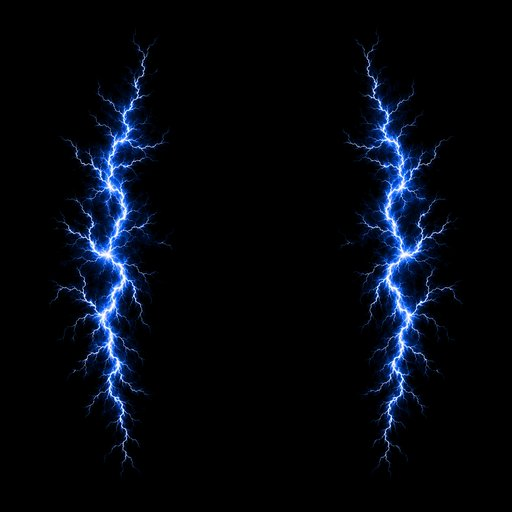
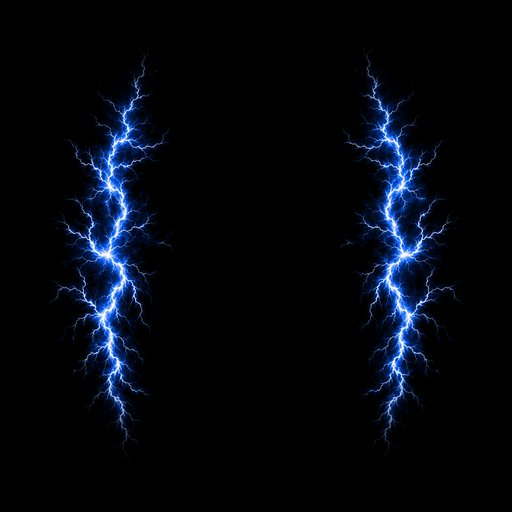
vfx: T68R — flipbook compositor: 8 Kling clips to 24-frame masked sheets, pingpong/forward playback on vfxT, ground-dim contrast engine, white-hot cores, eased still envelopes; engine untouched, anchor 40.9/59.1
PART A (scripts/build_vfx_sheets.py, rerunnable; imageio bundled ffmpeg): per clip
24 even frames @256px -> black-floor clamp(lum<12->0) + F2 radial cosine mask
(1.0 in 70%r -> 0 by 98%, corners guaranteed 0) -> 6x4 1536x1024 JPEG q85 sheet.
8 sheets = 1.66MB (8MB ceiling). A4: same clamp+mask on the 13 remaining stills
(ring/shield/bloom/streak/lightning + aura_3).

PART B: sheet-aware instances (drawImage src-rect from grid), frame @24fps / vfxT.
Modes (B2): pingpong (smoke_1/surge_1/surge_2/aura_1/aura_2, random start+dir),
forward-only (smoke_2/venom_1/venom_2 — venom NEVER reverses, drips never rise).
Routing swaps sheets in for aura/smoke/surge/venom; stills remain instant fallback
(sheet-not-ready -> still + envelope). Lightning 4-frame swap untouched. B4: aura
faction tint at DRAW time via one 256 offscreen (no 8x6MB pre-tinted sheets, ~48MB
saved). B5: sheets preload at page load AFTER stills (stills = guaranteed floor).

PART C: C1 ground-dim (radial 25% center, 1.8x feather, rise 80ms) under combat+/
spectacle (surge/bloom/smoke/lightning) only, never ambient/reduced-motion. C2
white-hot core add-back in the still tint pass. C3 cubic-out growth / cubic-in
decay / soft ~60-80ms birth + 1.35x/0.25a double-stamp halo on additive stills.

Gates: G1 byte-identical test.js, 40.9/59.1, scenario 50/venom 38/story 69, 0
console.log. G2 both matchups both seats: 4 flipbooks fire + ANIMATE (instrumented
[…]

diff --git a/index.html b/index.html
@@ -8101,7 +8101,15 @@ const VFX = (()=>{
   const SPR_NAMES=['aura_1','aura_2','aura_3','bloom_1','bloom_2','lightning_1','lightning_2','lightning_3','lightning_4','ring_1','ring_2','shield_1','shield_2','smoke_1','smoke_2','streak_1','streak_2','surge_1','surge_2','venom_1','venom_2'];
   const SPR_FAC={ devas:'#e0b040', asuras:'#e0483c', vanaras:'#6fc257', nagas:'#3fb9a8' };
   function offc2(wd,ht){ const c=document.createElement('canvas'); c.width=wd; c.height=ht; return c; }
-  function tintOf(img,color){ const iw=img.naturalWidth||img.width, ih=img.naturalHeight||img.height, c=offc2(iw,ih), g=c.getContext('2d'); g.drawImage(img,0,0,iw,ih); g.globalCompositeOperation='multiply'; g.fillStyle=color; g.fillRect(0,0,iw,ih); return c; }  // white-gold × faction color; black stays black → no additive contribution
+  function tintOf(img,color){ const iw=img.naturalWidth||img.width, ih=img.naturalHeight||img.height, c=offc2(iw,ih), g=c.getContext('2d');
+    g.drawImage(img,0,0,iw,ih); g.globalCompositeOperation='multiply'; g.fillStyle=color; g.fillRect(0,0,iw,ih);   // RGB tinted; black stays black → no additive contribution
+    // C2 WHITE-HOT CORE (F4): add the top-luminance core back UNtinted so bright centers stay white-gold, separated from the gold board
+    try{ const core=offc2(iw,ih), cg=core.getContext('2d'); cg.drawImage(img,0,0,iw,ih);
+      const id=cg.getImageData(0,0,iw,ih), d=id.data;
+      for(let i=0;i<d.length;i+=4){ if(Math.max(d[i],d[i+1],d[i+2])<205){ d[i]=d[i+1]=d[i+2]=0; } }   // keep only the hot core (>205)
+      cg.putImageData(id,0,0); g.globalCompositeOperation='lighter'; g.globalAlpha=0.55; g.drawImage(core,0,0); g.globalAlpha=1;
+    }catch(e){}
+    return c; }
   function buildTints(key,img){                                                       // tint ONCE at load, never per-frame
     if(/^aura|^ring/.test(key)){ sprTint[key]={}; for(const f in SPR_FAC) sprTint[key][f]=tintOf(img,SPR_FAC[f]); }   // faction-tinted
     else if(/^bloom/.test(key)){ sprTint[key]={ damage:tintOf(img,'#ff5a44') }; }                                    // red for damage; destroy uses raw white-gold
@@ -8110,15 +8118,41 @@ const VFX = (()=>{
   }
   function preloadSprites(){ if(sprLoadN>0) return;                                    // idempotent, once per session (0d slot; async → never blocks the mulligan)
     SPR_NAMES.forEach(key=>{ const im=new Image(); im.decoding='async';
-      im.onload=()=>{ sprImg[key]=im; try{buildTints(key,im);}catch(e){} sprLoadN++; if(sprLoadN>=SPR_NAMES.length) spritesReady=true; };
-      im.onerror=()=>{ sprLoadN++; if(sprLoadN>=SPR_NAMES.length) spritesReady=true; };   // a missing sprite just leaves its procedural fallback in place
+      im.onload=()=>{ sprImg[key]=im; try{buildTints(key,im);}catch(e){} sprLoadN++; if(sprLoadN>=SPR_NAMES.length){ spritesReady=true; preloadSheets(); } };
+      im.onerror=()=>{ sprLoadN++; if(sprLoadN>=SPR_NAMES.length){ spritesReady=true; preloadSheets(); } };   // a missing sprite just leaves its procedural fallback in place; stills done → start sheets (B5)
       im.src='assets/vfx/game/vfx_'+key+'.png'; });
   }
   function pick(pre,n){ return pre+'_'+(1+Math.floor(Math.random()*n)); }
   function haveSpr(key){ return !!sprImg[key]; }
   function imgTint(key,kind){ const t=sprTint[key]; if(kind && t && t[kind]) return t[kind]; return sprImg[key]; }
-  function addSpr(o){ if(reducedMotion()) return; if(!o.img && !o.swap) return; if(sprites.length>=SCAP) sprites.shift(); o.age=0; o.max=o.life; o.swapT=0; sprites.push(o); wake(); }   // oldest evicted at cap
+  // ===================== T68R FLIPBOOK SHEETS =====================
+  let sheetImg={}, sheetsReady=false, sheetLoadN=0;
+  const SHEET_NAMES=['aura_1','aura_2','smoke_1','smoke_2','surge_1','surge_2','venom_1','venom_2'];
+  const SHEET_COLS=6, SHEET_FRAMES=24, SHEET_CELL=256;
+  // B2 PLAYBACK MODES: pingpong default; venom + smoke_2(bloom-envelope) forward-only (venom NEVER reverses — drips must fall, never rise)
+  const SHEET_MODE={ aura_1:'pingpong', aura_2:'pingpong', smoke_1:'pingpong', surge_1:'pingpong', surge_2:'pingpong', smoke_2:'forward', venom_1:'forward', venom_2:'forward' };
+  const sheetFrameCanvas=offc2(SHEET_CELL,SHEET_CELL);   // B4: ONE reusable 256² canvas for draw-time aura tint (no 8×6MB pre-tinted sheets → ~50MB saved)
+  function haveSheet(key){ return !!sheetImg[key]; }
+  function preloadSheets(){ if(sheetLoadN>0) return;   // B5: sheets load at PAGE LOAD but AFTER the stills (stills are the guaranteed floor; sheets progressively upgrade)
+    SHEET_NAMES.forEach(key=>{ const im=new Image(); im.decoding='async';
+      im.onload=()=>{ sheetImg[key]=im; sheetLoadN++; if(sheetLoadN>=SHEET_NAMES.length) sheetsReady=true; };
+      im.onerror=()=>{ sheetLoadN++; if(sheetLoadN>=SHEET_NAMES.length) sheetsReady=true; };   // a missing sheet just keeps the still + envelope fallback
+      im.src='assets/vfx/game/sheets/vfx_'+key+'.png'; });
+  }
+  function addSheetSpr(key, x, y, size, o){ if(reducedMotion()||!sheetImg[key]) return false;
+    const mode=SHEET_MODE[key]||'forward';
+    addSpr(Object.assign({ sheet:key, mode, frame:(Math.random()*SHEET_FRAMES)|0, dir:(mode==='pingpong'&&Math.random()<.5?-1:1), fAcc:0, x, y, size, anchorX:0.5, anchorY:0.5, sc0:1,sc1:1, op0:0,opPeak:1,op1:0, peakAt:0.15 }, o||{})); return true; }
+  // C1 GROUND DIM (F3): soft radial darkening under COMBAT+ / SPECTACLE effects only (never ambient, never reduced-motion)
+  let gdim=null;
+  function groundDim(cxp,cyp,radius){ if(reducedMotion()) return; const {x,y}=local(cxp,cyp); gdim={ x, y, r:radius*1.8, peak:0.25, age:0, rise:0.08*vfxT(), life:0.5*vfxT() }; wake(); }
+  function addSpr(o){ if(reducedMotion()) return; if(!o.img && !o.swap && !o.sheet) return; if(sprites.length>=SCAP) sprites.shift(); o.age=0; o.max=o.life; o.swapT=0; sprites.push(o); wake(); }   // oldest evicted at cap
   function drawSprites(dt){
+    // C1 GROUND DIM: soft radial darkening drawn FIRST (source-over), so the additive effect glows over a dimmed board → contrast
+    if(gdim){ gdim.age+=dt; if(gdim.age>=gdim.life) gdim=null;
+      else { const a = gdim.age<gdim.rise ? gdim.peak*(gdim.age/gdim.rise) : gdim.peak*(1-(gdim.age-gdim.rise)/(gdim.life-gdim.rise));
+        if(a>0.003){ cx.setTransform(1,0,0,1,0,0); cx.globalCompositeOperation='source-over'; cx.globalAlpha=1;
+          const g=cx.createRadialGradient(gdim.x*DPR,gdim.y*DPR,0, gdim.x*DPR,gdim.y*DPR,gdim.r*DPR);
+          g.addColorStop(0,`rgba(0,0,0,${a.toFixed(3)})`); g.addColorStop(1,'rgba(0,0,0,0)'); cx.fillStyle=g; cx.fillRect(0,0,canvas.width,canvas.height); } } }
     if(!sprites.length) return;
     for(let i=sprites.length-1;i>=0;i--){ const s=sprites[i]; s.age+=dt; if(s.age>=s.max) sprites.splice(i,1); }
     cx.save();                                                              // T67b R2: isolate all sprite state
@@ -8129,40 +8163,72 @@ const VFX = (()=>{
   }
   function drawOneSpr(s,dt){
     if(s.swap){ s.swapT+=dt; if(!s.img || s.swapT>=0.05){ s.swapT=0; s.img=sprImg[pick('lightning',4)]; s.flip=(Math.random()<.5?-1:1); } }   // lightning: hard-swap variant every 50ms + random flip = free variation
-    const img=s.img; if(!img) return;
-    const t=Math.min(1,s.age/s.max), ez=1-Math.pow(1-t,2);
+    // B1/B2: advance flipbook frame at 24fps / vfxT (faster at 'fast', slower at 'relaxed')
+    if(s.sheet){ s.fAcc+=dt*24/(vfxT()||1);
+      while(s.fAcc>=1){ s.fAcc-=1; s.frame+=s.dir;
+        if(s.mode==='pingpong'){ if(s.frame>=SHEET_FRAMES){ s.frame=SHEET_FRAMES-2; s.dir=-1; } else if(s.frame<0){ s.frame=1; s.dir=1; } }
+        else if(s.frame>=SHEET_FRAMES){ s.frame=SHEET_FRAMES-1; } }   // forward-only clamps at last frame (venom never reverses → drips never rise)
+    }
+    const img=s.sheet ? sheetImg[s.sheet] : s.img; if(!img) return;
+    const t=Math.min(1,s.age/s.max);
+    const ez = s.crash ? t : (1-Math.pow(1-t,3));                            // C3 F5: cubic-OUT growth
     let sc=s.sc0+(s.sc1-s.sc0)*ez; if(s.overshoot) sc+=Math.sin(t*Math.PI)*s.overshoot*(1-t);
     let op; const pk=(s.peakAt!=null?s.peakAt:0.3);
-    if(s.crash) op=s.opPeak*(1-t);                                            // 1->0 crash (bloom)
-    else if(t<pk) op=s.op0+(s.opPeak-s.op0)*(t/pk);
-    else op=s.opPeak+(s.op1-s.opPeak)*((t-pk)/(1-pk));
+    if(s.crash) op=s.opPeak*(1-Math.pow(t,1.4));                             // bloom crash
+    else if(t<pk) op=s.op0+(s.opPeak-s.op0)*Math.pow(t/pk,0.6);              // C3: soft ~60-80ms birth (fast-in then settle)
+    else op=s.opPeak+(s.op1-s.opPeak)*Math.pow((t-pk)/(1-pk),1.6);          // C3: cubic-IN decay
     if(op<=0.004) return;
     const size=s.size, sx=DPR*sc*(s.flip||1)*(s.stretchX||1), sy=DPR*sc*(s.squashY||1);
     const c=Math.cos(s.rot||0), sn=Math.sin(s.rot||0), dx=s.x+(s.driftX||0)*t, dy=s.y+(s.driftY||0)*t;
-    cx.globalCompositeOperation = s.smoke ? 'source-over' : 'lighter';      // T67b R2: set blend PER SPRITE — a kit sprite can never draw source-over (no state leak / device default can show its black)
-    cx.globalAlpha=Math.min(1,op);
+    cx.globalCompositeOperation = s.smoke ? 'source-over' : 'lighter';       // T67b R2: blend per-sprite (flipbook sheets are all additive → 'lighter')
     cx.setTransform(sx*c, sx*sn, -sy*sn, sy*c, DPR*dx, DPR*dy);
     const ax=(s.anchorX!=null?s.anchorX:0.5), ay=(s.anchorY!=null?s.anchorY:0.5);
+    if(s.sheet){
+      const fr=Math.max(0,Math.min(SHEET_FRAMES-1, Math.floor(s.frame))), sx0=(fr%SHEET_COLS)*SHEET_CELL, sy0=((fr/SHEET_COLS)|0)*SHEET_CELL;
+      if(s.tintFac){   // B4: draw-time aura faction tint via the shared 256² offscreen (multiply; black stays black under 'lighter')
+        const og=sheetFrameCanvas.getContext('2d'); og.globalCompositeOperation='source-over'; og.clearRect(0,0,SHEET_CELL,SHEET_CELL);
+        og.drawImage(img, sx0,sy0,SHEET_CELL,SHEET_CELL, 0,0,SHEET_CELL,SHEET_CELL);
+        og.globalCompositeOperation='multiply'; og.fillStyle=SPR_FAC[s.tintFac]||'#e0b040'; og.fillRect(0,0,SHEET_CELL,SHEET_CELL);
+        cx.globalAlpha=Math.min(1,op); cx.drawImage(sheetFrameCanvas, -size*ax,-size*ay, size,size);
+      } else { cx.globalAlpha=Math.min(1,op); cx.drawImage(img, sx0,sy0,SHEET_CELL,SHEET_CELL, -size*ax,-size*ay, size,size); }
+      return;
+    }
+    cx.globalAlpha=Math.min(1,op);
     cx.drawImage(img, -size*ax, -size*ay, size, size);
+    if(s.halo){ cx.globalAlpha=Math.min(1,op)*0.25; const hs=size*1.35; cx.drawImage(img, -hs*ax, -hs*ay, hs, hs); }   // C3 F5: double-stamp halo on additive stills
   }
   function cw(cardW){ return cardW||w*0.16; }
   // ---- STEP 3 motion recipes (all life ×S()=vfxT parity; each returns true if the painted sprite fired, false → caller keeps procedural) ----
-  function sprAura(cxp,cyp,faction,cardW){ if(reducedMotion()||!ready||!haveSpr('aura_1')) return false; const {x,y}=local(cxp,cyp), W=cw(cardW);
-    addSpr({ img:imgTint(pick('aura',3),faction), x,y, size:W*1.9, sc0:0.8,sc1:1.15, op0:0,opPeak:0.8,op1:0, peakAt:0.4, life:0.5*vfxT(), rot:Math.random()*6.28 }); return true; }
+  // ---- recipes: FLIPBOOK-first for the 4 converted effects (still + envelope fallback); C3 halo on additive stills; C1 ground-dim on combat+/spectacle ----
+  function sprAura(cxp,cyp,faction,cardW){ if(reducedMotion()||!ready) return false; const {x,y}=local(cxp,cyp), W=cw(cardW), v=pick('aura',2);   // aura_1/2 have sheets; aura_3 still-only
+    if(haveSheet(v)) return addSheetSpr(v, x, y, W*2.2, { opPeak:0.85, life:0.55*vfxT(), tintFac:faction });   // B4 draw-time faction tint
+    if(!haveSpr('aura_1')) return false;
+    addSpr({ img:imgTint(pick('aura',3),faction), x,y, size:W*1.9, sc0:0.8,sc1:1.15, op0:0,opPeak:0.8,op1:0, peakAt:0.4, life:0.5*vfxT(), rot:Math.random()*6.28, halo:true }); return true; }
   function sprBloom(cxp,cyp,kind,cardW){ if(reducedMotion()||!ready||!haveSpr('bloom_1')) return false; const {x,y}=local(cxp,cyp), W=cw(cardW), k=pick('bloom',2);
+    groundDim(cxp,cyp,W*1.6);   // C1: bloom = combat hit
     addSpr({ img:(kind==='damage'?imgTint(k,'damage'):sprImg[k]), x,y, size:W*2.0, sc0:0.6,sc1:1.2, opPeak:1, crash:true, life:0.16*vfxT(), rot:Math.random()*6.28, anchorX:(/2$/.test(k)?0.4:0.5), anchorY:(/2$/.test(k)?0.6:0.5) }); return true; }
   function sprRing(cxp,cyp,faction,cardW){ if(reducedMotion()||!ready||!haveSpr('ring_1')) return false; const {x,y}=local(cxp,cyp), W=cw(cardW);
-    addSpr({ img:imgTint(pick('ring',2),faction), x, y, size:W*2.2, sc0:0.7,sc1:1.05, overshoot:0.12, op0:0,opPeak:1,op1:0, peakAt:0.3, life:0.6*vfxT(), squashY:0.42 }); return true; }
-  function sprSmoke(cxp,cyp,count,cardW){ if(reducedMotion()||!ready||!haveSpr('smoke_1')) return false; const {x,y}=local(cxp,cyp), W=cw(cardW), n=count||1;
-    for(let i=0;i<n;i++){ setTimeout(()=>{ if(!ready) return; addSpr({ img:sprImg[pick('smoke',2)], smoke:true, x:x+(Math.random()-.5)*W*0.5, y:y+(Math.random()-.5)*W*0.3, size:W*1.8, sc0:1.0,sc1:1.35, op0:0.85,opPeak:0.85,op1:0, peakAt:0.05, life:0.9*vfxT(), rot:(Math.random()-.5)*0.21, driftY:-(20+Math.random()*20) }); }, i*80*vfxT()); } return true; }
+    addSpr({ img:imgTint(pick('ring',2),faction), x, y, size:W*2.2, sc0:0.7,sc1:1.05, overshoot:0.12, op0:0,opPeak:1,op1:0, peakAt:0.3, life:0.6*vfxT(), squashY:0.42, halo:true }); return true; }   // ambient landing → no ground-dim
+  function sprSmoke(cxp,cyp,count,cardW){ if(reducedMotion()||!ready) return false; const {x,y}=local(cxp,cyp), W=cw(cardW), n=count||1;
+    groundDim(cxp,cyp,W*1.8);   // C1: smoke = destroy/spectacle
+    for(let i=0;i<n;i++){ setTimeout(()=>{ if(!ready) return; const v=pick('smoke',2);
+      if(haveSheet(v)){ addSheetSpr(v, x+(Math.random()-.5)*W*0.5, y+(Math.random()-.5)*W*0.3, W*1.9, { opPeak:0.85, life:0.9*vfxT(), driftY:-(20+Math.random()*20) }); }   // flipbook smoke is an additive rolling GLOW (fixes the black-blob verdict)
+      else if(haveSpr('smoke_1')){ addSpr({ img:sprImg[v], smoke:true, x:x+(Math.random()-.5)*W*0.5, y:y+(Math.random()-.5)*W*0.3, size:W*1.8, sc0:1.0,sc1:1.35, op0:0.85,opPeak:0.85,op1:0, peakAt:0.05, life:0.9*vfxT(), rot:(Math.random()-.5)*0.21, driftY:-(20+Math.random()*20) }); } }, i*80*vfxT()); }
+    return (haveSheet('smoke_1')||haveSpr('smoke_1')); }
   function sprLightning(cxp,cyp,cardW){ if(reducedMotion()||!ready||!haveSpr('lightning_1')) return false; const {x,y}=local(cxp,cyp), W=cw(cardW);
+    groundDim(cxp,cyp,W*2.4);   // C1: lightning = spectacle
     addSpr({ img:sprImg[pick('lightning',4)], swap:true, x,y, size:W*3.2, sc0:1.0,sc1:1.06, op0:0,opPeak:0.95,op1:0, peakAt:0.12, life:0.45*vfxT(), flip:(Math.random()<.5?-1:1) }); return true; }
   function sprShield(cxp,cyp,cardW){ if(reducedMotion()||!ready||!haveSpr('shield_1')) return false; const {x,y}=local(cxp,cyp), W=cw(cardW);
-    addSpr({ img:sprImg[pick('shield',2)], x,y, size:W*2.4, sc0:1.3,sc1:1.0, overshoot:0.18, op0:0,opPeak:0.7,op1:0, peakAt:0.35, life:0.5*vfxT() }); return true; }   // serene: no shake, no hit-stop (caller-side)
-  function sprVenom(cxp,cyp,cardW){ if(reducedMotion()||!ready||!haveSpr('venom_1')) return false; const {x,y}=local(cxp,cyp), W=cw(cardW);
-    addSpr({ img:sprImg[pick('venom',2)], x, y:y-W*0.25, size:W*1.7, sc0:0.9,sc1:1.0, op0:0,opPeak:0.6,op1:0, peakAt:0.35, life:0.7*vfxT(), driftY:W*0.2 }); return true; }   // ambient dread: never past 1.0, never flashes
-  function sprSurge(cxp,cyp,cardW){ if(reducedMotion()||!ready||!haveSpr('surge_1')) return false; const {x,y}=local(cxp,cyp), W=cw(cardW);
-    addSpr({ img:sprImg[pick('surge',2)], x,y, size:W*2.1, sc0:0.8,sc1:1.2, op0:0,opPeak:0.9,op1:0, peakAt:0.2, life:0.45*vfxT(), rot:(Math.random()-.5)*0.5 }); return true; }
+    addSpr({ img:sprImg[pick('shield',2)], x,y, size:W*2.4, sc0:1.3,sc1:1.0, overshoot:0.18, op0:0,opPeak:0.7,op1:0, peakAt:0.35, life:0.5*vfxT(), halo:true }); return true; }   // serene: no shake, no hit-stop, no dim
+  function sprVenom(cxp,cyp,cardW){ if(reducedMotion()||!ready) return false; const {x,y}=local(cxp,cyp), W=cw(cardW), v=pick('venom',2);   // ambient dread → no dim; forward-only sheet (venom never reverses)
+    if(haveSheet(v)) return addSheetSpr(v, x, y-W*0.25, W*1.9, { opPeak:0.6, life:0.7*vfxT(), driftY:W*0.2 });
+    if(!haveSpr('venom_1')) return false;
+    addSpr({ img:sprImg[v], x, y:y-W*0.25, size:W*1.7, sc0:0.9,sc1:1.0, op0:0,opPeak:0.6,op1:0, peakAt:0.35, life:0.7*vfxT(), driftY:W*0.2, halo:true }); return true; }
+  function sprSurge(cxp,cyp,cardW){ if(reducedMotion()||!ready) return false; const {x,y}=local(cxp,cyp), W=cw(cardW), v=pick('surge',2);
+    groundDim(cxp,cyp,W*2.1);   // C1: surge = combat weight
+    if(haveSheet(v)) return addSheetSpr(v, x, y, W*2.2, { opPeak:0.95, life:0.5*vfxT(), rot:(Math.random()-.5)*0.4 });
+    if(!haveSpr('surge_1')) return false;
+    addSpr({ img:sprImg[v], x,y, size:W*2.1, sc0:0.8,sc1:1.2, op0:0,opPeak:0.9,op1:0, peakAt:0.2, life:0.45*vfxT(), rot:(Math.random()-.5)*0.5, halo:true }); return true; }
   function sprStreak(fx,fy,tx,ty,cardW){ if(reducedMotion()||!ready||!haveSpr('streak_1')) return false; const a=local(fx,fy), b=local(tx,ty), W=cw(cardW);
     const dxp=b.x-a.x, dyp=b.y-a.y, len=Math.hypot(dxp,dyp)||1, ang=Math.atan2(dyp,dxp);
     addSpr({ img:imgTint(pick('streak',2),'leap'), x:(a.x+b.x)/2, y:(a.y+b.y)/2, size:W*1.4, sc0:1,sc1:1, stretchX:Math.max(1,len/(W*1.0)), squashY:0.7, rot:ang, op0:0,opPeak:0.9,op1:0, peakAt:0.25, life:0.3*vfxT() }); return true; }
@@ -8188,7 +8254,7 @@ const VFX = (()=>{
   }
   function step(now){
     const dt=Math.min(0.05,(now-last)/1000); last=now; frame(dt, now);
-    if(parts.length||bolts.length||tint||sprites.length) raf=requestAnimationFrame(step); else { raf=0; cx.clearRect(0,0,canvas.width,canvas.height); }
+    if(parts.length||bolts.length||tint||sprites.length||gdim) raf=requestAnimationFrame(step); else { raf=0; cx.clearRect(0,0,canvas.width,canvas.height); }
   }
   function poly(pts){ cx.beginPath(); cx.moveTo(pts[0].x,pts[0].y); for(let i=1;i<pts.length;i++) cx.lineTo(pts[i].x,pts[i].y); cx.stroke(); }
   function addFire(x,y,ang,sp,sz,life,buoy,inward){ add({ kind:'glow', x, y, vx:Math.cos(ang)*sp, vy:Math.sin(ang)*sp, buoy, inward, cx0:x, cy0:y, flHz:63+Math.random()*30, flP:Math.random()*6.28, flA:2+Math.random()*2, sz, life, max:life }); }
@@ -8218,7 +8284,8 @@ const VFX = (()=>{
     setTimeout(()=>{ if(ready) brahmastraSmoke(ix,iy); }, (90+100+60+140)*s);                            // afterglow tail (flash div) → smoke + embers
   }
   return { init, resize, cardLand, astraBurst, mythic,
-           preloadSprites, spritesReady:()=>spritesReady, sprCount:()=>sprites.length,
+           preloadSprites, preloadSheets, spritesReady:()=>spritesReady, sheetsReady:()=>sheetsReady, sprCount:()=>sprites.length,
+           frameOf:(i)=>{ const s=sprites[i]; return s?{sheet:s.sheet,frame:s.frame,dir:s.dir,mode:s.mode}:null; },   // G2 instrumentation: read live frame index
            sprAura, sprBloom, sprRing, sprSmoke, sprLightning, sprShield, sprVenom, sprSurge, sprStreak };
 })();
 function cpulse(el, cls){ if(!el||reducedMotion())return; el.classList.remove(cls); void el.offsetWidth; el.classList.add(cls); setTimeout(()=>el.classList.remove(cls),320*vfxT()); }

diff --git a/scripts/build_vfx_sheets.py b/scripts/build_vfx_sheets.py
@@ -1,0 +1,92 @@
+#!/usr/bin/env python3
+# build_vfx_sheets.py — T68R flipbook pipeline (RERUNNABLE).
+# A1: extract 24 evenly-spaced frames per clip @256px.
+# A2: per frame — black-floor clamp (lum<12 -> 0) THEN F2 radial soft mask
+#     (1.0 inside 70% radius, cosine ease to 0.0 by 98%; corners guaranteed 0).
+# A3: pack 6x4 grid -> 1536x1024 JPEG-in-.png q85 into assets/vfx/game/sheets/.
+# A4: apply the SAME clamp+mask to the 13 remaining still derivatives
+#     (ring/shield/bloom/streak/lightning + aura_3) from their masters.
+# Usage: python3 scripts/build_vfx_sheets.py   (run from repo root)
+import os, sys, math
+import numpy as np
+from PIL import Image
+import imageio.v2 as imageio
+
+ROOT = os.path.dirname(os.path.dirname(os.path.abspath(__file__)))
+CLIPS = os.path.join(ROOT, "assets/vfx/clips")
+MASTERS = os.path.join(ROOT, "assets/vfx")
+SHEETS = os.path.join(ROOT, "assets/vfx/game/sheets")
+GAME = os.path.join(ROOT, "assets/vfx/game")
+os.makedirs(SHEETS, exist_ok=True)
+
+FRAMES = 24
+CELL = 256
+COLS, ROWS = 6, 4
+Q = int(os.environ.get("SHEET_Q", "85"))
+CLIP_EFFECTS = ["aura_1","aura_2","smoke_1","smoke_2","surge_1","surge_2","venom_1","venom_2"]
+A4_STILLS = ["ring_1","ring_2","shield_1","shield_2","bloom_1","bloom_2",
+             "streak_1","streak_2","lightning_1","lightning_2","lightning_3","lightning_4","aura_3"]
+
+# --- F2 radial soft mask, precomputed for a CELL x CELL frame ---
+def radial_mask(n):
+    yy, xx = np.mgrid[0:n, 0:n]
+    cx = cy = (n - 1) / 2.0
+    r = np.sqrt((xx - cx) ** 2 + (yy - cy) ** 2) / (n / 2.0)   # 0 at center, 1 at edge midpoint, ~1.41 at corner
+    m = np.ones_like(r, dtype=np.float32)
+    ease = (r > 0.70) & (r < 0.98)
+    m[ease] = 0.5 * (1 + np.cos(math.pi * (r[ease] - 0.70) / (0.98 - 0.70)))   # cosine 1 -> 0
+    m[r >= 0.98] = 0.0
+    return m[..., None]  # HxWx1
+MASK = radial_mask(CELL)
+
+def treat(rgb):  # clamp black floor then radial mask (additive-safe: edges -> pure black)
+    a = rgb.astype(np.float32)
+    lum = a.max(axis=2)
+    a[lum < 12] = 0
+    a = a * MASK
+    return np.clip(a, 0, 255).astype(np.uint8)
+
+def build_sheet(effect):
+    path = os.path.join(CLIPS, f"vfx_{effect}_clip.mp4")
+    rd = imageio.get_reader(path)
+    n = rd.count_frames()
+    if not n or n == float("inf"):
+        frames_all = [f for f in rd]; n = len(frames_all)
+        pick = [frames_all[min(n-1, round(i*(n-1)/(FRAMES-1)))] for i in range(FRAMES)]
+    else:
+        idx = [min(n-1, round(i*(n-1)/(FRAMES-1))) for i in range(FRAMES)]
+        pick = [rd.get_data(j) for j in idx]
+    rd.close()
+    sheet = Image.new("RGB", (COLS*CELL, ROWS*CELL), (0,0,0))
+    for i, fr in enumerate(pick):
+        im = Image.fromarray(fr[:, :, :3]).convert("RGB").resize((CELL, CELL), Image.LANCZOS)
+        t = treat(np.asarray(im))
+        sheet.paste(Image.fromarray(t, "RGB"), ((i % COLS)*CELL, (i // COLS)*CELL))
+    out = os.path.join(SHEETS, f"vfx_{effect}.png")
+    sheet.save(out, "JPEG", quality=Q)
+    return os.path.getsize(out)
+
+def mask_still(name):
+    src = os.path.join(MASTERS, f"vfx_{name}.png")
+    im = Image.open(src).convert("RGB").resize((512, 512), Image.LANCZOS)
+    a = np.asarray(im).astype(np.float32)
+    lum = a.max(axis=2); a[lum < 12] = 0
+    m = radial_mask(512)
+    a = np.clip(a * m, 0, 255).astype(np.uint8)
+    out = os.path.join(GAME, f"vfx_{name}.png")
+    Image.fromarray(a, "RGB").save(out, "JPEG", quality=85)
+    return os.path.getsize(out)
+
+if __name__ == "__main__":
+    tot = 0
+    print("=== A1-A3: sheets (6x4, 1536x1024, q%d) ===" % Q)
+    for e in CLIP_EFFECTS:
+        sz = build_sheet(e); tot += sz
+        print(f"  vfx_{e}.png  {sz/1024:.0f}KB")
+    print(f"  TOTAL sheet payload: {tot/1048576:.2f}MB  (8MB hard ceiling)")
+    if tot > 8*1048576:
+        print("  *** OVER 8MB CEILING — rerun with SHEET_Q=80 or FRAMES=20 ***"); sys.exit(1)
+    print("=== A4: radial-mask the 13 remaining stills ===")
+    for s in A4_STILLS:
+        sz = mask_still(s); print(f"  vfx_{s}.png  {sz/1024:.0f}KB")
+    print("DONE")
